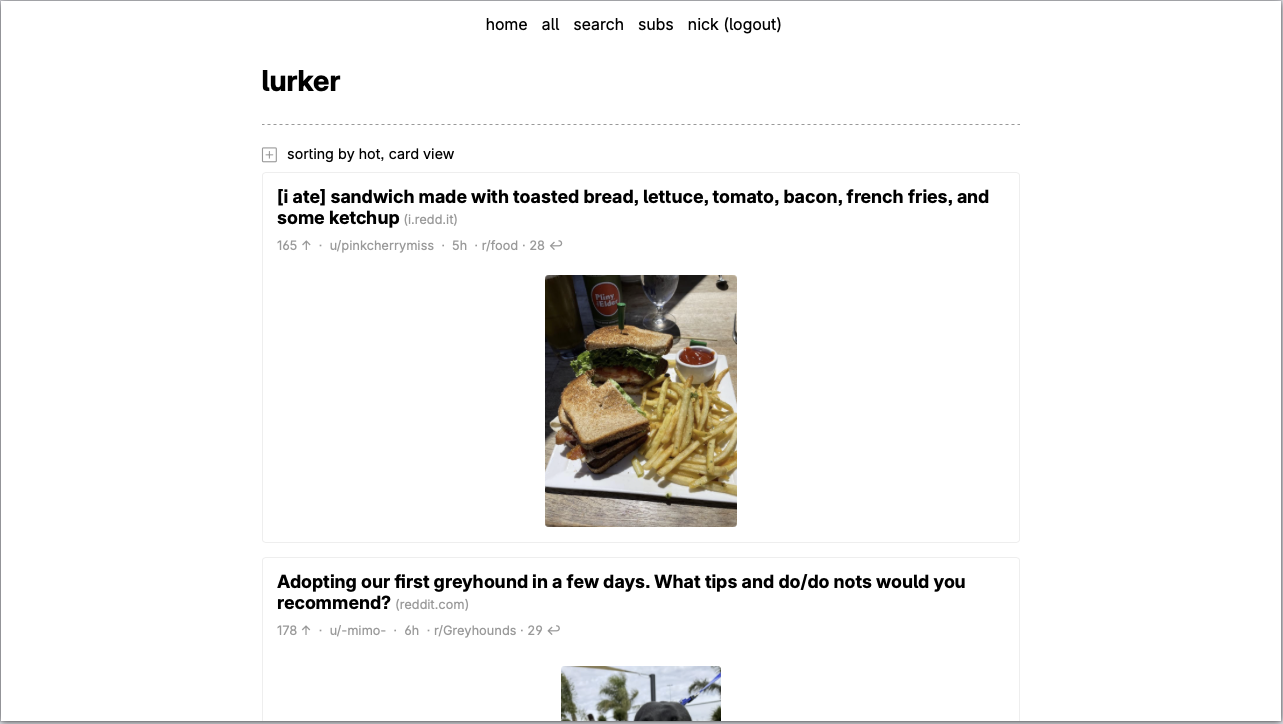
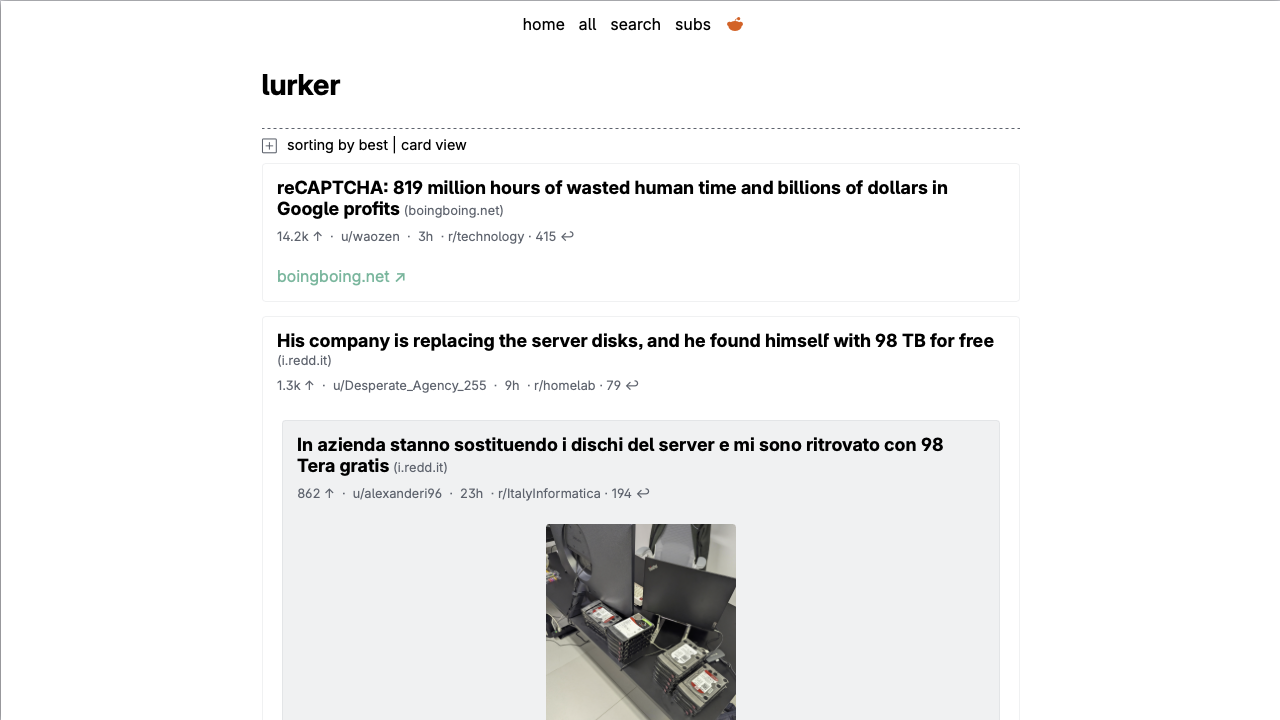
[Feat] Dashboard and header updates. * Replace `username` and `logout` in header with a Snoo linking to the `dashboard` * Updated `dashboard` allows password and username changes, as well as basic user info for admins * CSS updates to support the above * Minor prefs text update * Documentation updat

Changed region(s): [[0.0, 0.1833, 1.0, 1.0], [0.375, 0.0306, 0.625, 0.0611], [0.1875, 0.0917, 0.2812, 0.1528]]

diff --git a/src/routes/index.js b/src/routes/index.js
@@ -277,6 +277,7 @@ router.get("/post-search", authenticateToken, async (req, res) => {
 // GET /dashboard
 router.get("/dashboard", authenticateToken, async (req, res) => {
 	let invites = null;
+	let users = null;
 	const isAdmin = db
 		.query("SELECT isAdmin FROM users WHERE id = $id and isAdmin = 1")
 		.get({
@@ -284,18 +285,88 @@ router.get("/dashboard", authenticateToken, async (req, res) => {
 		});
 	if (isAdmin) {
 		invites = db
-			.query("SELECT * FROM invites")
+			.query("SELECT * FROM invites ORDER BY createdAt DESC")
 			.all()
 			.map((inv) => ({
 				...inv,
 				createdAt: Date.parse(inv.createdAt),
 				usedAt: Date.parse(inv.usedAt),
 			}));
+		
+		users = db
+			.query(`SELECT * FROM users ORDER BY isAdmin DESC, username`)
+			.all();
 	}
 
 	const prefs = get_user_prefs(req.user.id);
 
-	res.render("dashboard", { invites, isAdmin, user: req.user, prefs });
+	const message = req.query.message;
+	const error = req.query.error;
+
+	res.render("dashboard", { invites, users, message, error, isAdmin, user: req.user, prefs });
+});
+
+// POST /dashboard
+router.post("/dashboard", authenticateToken, async (req, res) => {
+	// Update user record
+	let message = null;
+	let error = null;
+
+	// Check for password update
+	if (req.body.password_current && req.body.password_new && req.body.password_confirm) {
+		const password_current = req.body.password_current;
+		const password_new = req.body.password_new;
+		const password_confirm = req.body.password_confirm;
+
+		// Ensure the new and confirm passwords match
+		if (password_new !== password_confirm) {
+			error = 'New passwords do not match';
+		}
+		else {
+			// Validate the current password
+			const user = db
+				.query("SELECT password_hash FROM users WHERE id = $user_id")
+				.get({ user_id: req.user.id });
+			if (user && (await Bun.password.verify(password_current, user.password_hash))) {
+				// Valid password; hash and update
+				const hashedPassword = await Bun.password.hash(password_new);
+				db.query(`
+					UPDATE users
+					SET password_hash = $hash
+					WHERE id = $user_id
+				`).run({ user_id: req.user.id, hash: hashedPassword });
+				message = 'Updated password';
+			}
+			else {
+				error = 'Invalid current password';
+			}
+		}
+	}
+
+	// Check for username update
+	if (req.body.username_new) {
+		const username = req.body.username_new;
+		// Ensure this username is not in use
+		const user = db
+			.query("SELECT * FROM users WHERE username = $username")
+			.get({ username });
+		if (user) {
+			error = `User "${username}" already exists`;
+		}
+		else {
+			// Update the username, which will trigger a logout
+			db.query(`
+				UPDATE users
+				SET username = $username
+				WHERE id = $user_id
+			`).run({ user_id: req.user.id, username: username });
+
+			message = 'Updated username, please log in again';
+		}
+	}
+
+	const qs = '?' + (error ? `error=${error}` : '') + (error && message ? '&' : '') + (message ? `message=${message}` : '');
+	res.redirect(`/dashboard${qs}`);
 });
 
 router.get("/create-invite", authenticateAdmin, async (req, res) => {
@@ -311,19 +382,24 @@ router.get("/create-invite", authenticateAdmin, async (req, res) => {
 
 	try {
 		createInvite();
-		return res.redirect("/dashboard");
+		let message = 'Created invite'
+		return res.redirect(`/dashboard?message=${message}`);
 	} catch (err) {
 		console.log(err);
-		return res.send("failed to create invite");
+		let error = 'Failed to create invite; check console log';
+		return res.redirect(`/dashboard?error=${error}`);
 	}
 });
 
 router.get("/delete-invite/:id", authenticateToken, async (req, res) => {
 	try {
 		db.run("DELETE FROM invites WHERE id = $id", { id: req.params.id });
-		return res.redirect("/dashboard");
+		let message = 'Deleted invite'
+		return res.redirect(`/dashboard?message=${message}`);
 	} catch (err) {
-		return res.send("failed to delete invite");
+		console.log(err);
+		let error = 'Failed to delete invite; check console log';
+		return res.redirect(`/dashboard?error=${error}`);
 	}
 });
 

diff --git a/src/public/styles.css b/src/public/styles.css
@@ -851,22 +851,22 @@ form input[type="submit"]:hover {
   flex-flow: row wrap;
 }
 
-.invite-table {
+.dashboard-table {
   width: 100%;
   padding: 10px 0;
 }
 
-.invite-table th,
-.invite-table td
+.dashboard-table th,
+.dashboard-table td
 {
   padding: 5px 0;
 }
 
-.invite-table-header {
+.dashboard-table-header {
   text-align: left;
 }
 
-.invite-link {
+.dashboard-link {
   font-family: monospace;
 }
 

diff --git a/readme.md b/readme.md
@@ -1,6 +1,6 @@
 # lurker
 
-lurker is a selfhostable, read-only reddit client, forked from [oppiliappan/lurker](https://github.com/oppiliappan/lurker)
+lurker is a selfhostable, read-only Reddit client, forked from [oppiliappan/lurker](https://github.com/oppiliappan/lurker)
 
 It is better than [`old-reddit`](https://old.reddit.com) because:
 
@@ -104,7 +104,7 @@ services.lurker = {
 
 lurker is open to registrations when first started.
 Navigate to `/register` and create an account, which will be an admin account.
-Click on your username at the top-right to view the dashboard and to invite other users to your instance.
+Click on Snoo at the top-right to view the dashboard, change your preferences, and to invite other users to your instance.
 
 ## Technical
 
@@ -144,3 +144,9 @@ You can now browse your lurker devcontainer instance remotely via `http://<host_
 nix shell .#        # get a devshell
 nix build .#lurker  # build the thing
 ```
+
+## 3rd-party Assets
+
+Reddit brand assets and elements are utilized in compliance with the [Reddit Brand foundation](https://reddit.lingoapp.com/k/Brand-foundation-oYYL4W?v=29) (`v2.09` at the time of last review).
+
+lurker utilizes the `Inter` typeface by [Rasmus Andersson](https://rsms.me/inter/)
